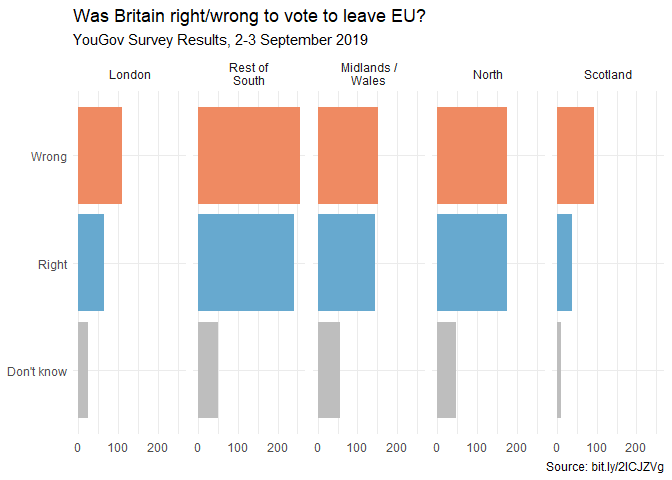
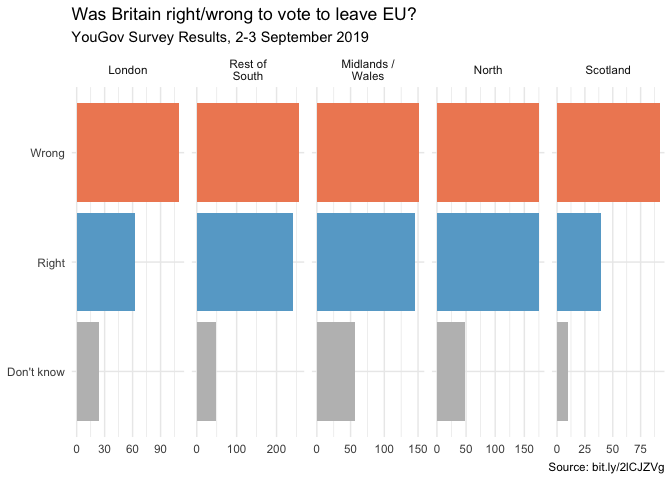
Exercises 1-3

diff --git a/brexit.md b/brexit.md
@@ -1,6 +1,6 @@
 Brexit
 ================
-Naomi Ekas
+Morgan Shumaker
 
 In September 2019, YouGov survey asked 1,639 GB adults the following
 question:
@@ -60,11 +60,11 @@ How does the visualization change? How is the story this visualization
 telling different than the story the original plot tells?
 
 ``` r
-ggplot(brexit, aes(y = opinion, fill = opinion)) +
+ggplot(brexit, aes(y = opinion, fill = opinion, warnings = FALSE)) +
   geom_bar() +
   facet_wrap(~region,
     nrow = 1, labeller = label_wrap_gen(width = 12),
-    # ___
+    scales = "free_x"
   ) +
   guides(fill = FALSE) +
   labs(
@@ -96,8 +96,29 @@ visualisation telling different than the story the original plot tells?
 which means you’ll need to load it on top of the document as well.
 
 ``` r
-# code goes here
+brexit %>%
+  count(region, opinion) %>%
+  group_by(region) %>%
+  mutate(opinion_prop = n / sum(n)) %>%
+  ggplot(aes(y = opinion, x = opinion_prop, fill = opinion, warnings = FALSE)) +
+  geom_col() +facet_wrap(~region,
+    nrow = 1, labeller = label_wrap_gen(width = 12)) +
+  labs(
+    title = "Was Britain right/wrong to vote to leave EU?",
+    subtitle = "YouGov Survey Results, 2-3 September 2019",
+    caption = "Source: bit.ly/2lCJZVg",
+    x = "Proportion", y = NULL
+  ) +
+  scale_fill_manual(values = c(
+    "Wrong" = "#ef8a62",
+    "Right" = "#67a9cf",
+    "Don't know" = "gray"
+  )) +
+  theme_minimal() +
+  scale_x_continuous(labels = percent)
 ```
+
+![](brexit_files/figure-gfm/unnamed-chunk-4-1.png)<!-- -->
 
 ### Exercise 3 - Comparing proportions across bars
 
@@ -107,5 +128,27 @@ faceting by region and then improve the legend. How is the story this
 visualization telling different than the story the previous plot tells?
 
 ``` r
-# code goes here
+brexit %>%
+  count(region, opinion) %>%
+  group_by(region) %>%
+  mutate(opinion_prop = n / sum(n)) %>%
+  ggplot(aes(y = fct_rev(region), x = opinion_prop, fill = opinion, warnings = FALSE)) +
+  geom_col(position = "dodge") +
+  #facet_wrap(~region,
+    #nrow = 1, labeller = label_wrap_gen(width = 12)) +
+  labs(
+    title = "Was Britain right/wrong to vote to leave EU?",
+    subtitle = "YouGov Survey Results, 2-3 September 2019",
+    caption = "Source: bit.ly/2lCJZVg",
+    x = NULL, y = NULL, fill = "Opinion"
+  ) +
+  scale_fill_manual(values = c(
+    "Wrong" = "#ef8a62",
+    "Right" = "#67a9cf",
+    "Don't know" = "gray"
+  )) +
+  theme_minimal() +
+  scale_x_continuous(labels = percent)
 ```
+
+![](brexit_files/figure-gfm/unnamed-chunk-5-1.png)<!-- -->
